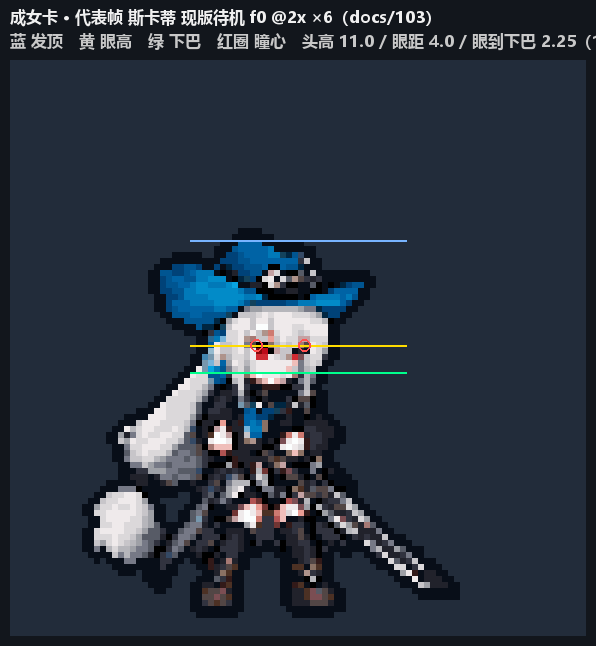
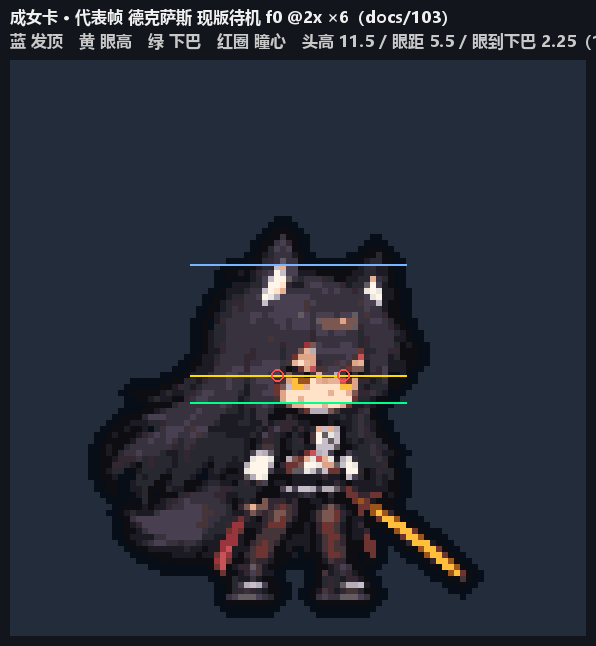
docs/103：斯卡蒂按用户分法归少（量得值成女型，标为卡内例外），成女卡代表帧改德克萨斯

Changed region(s): [[0.1208, 0.3096, 0.8154, 0.9598], [0.2114, 0.0, 0.755, 0.0929]]

diff --git a/docs/103_body_templates.md b/docs/103_body_templates.md
@@ -52,8 +52,8 @@
 
 | 判据 | 成女 | 少 | 幼（铃兰） | 成男 |
 |---|---|---|---|---|
-| 眼高（0 = 发顶） | 0.76–0.84（眼低） | 0.69–0.74 | 0.61 | 0.62–0.65 |
-| 眼到下巴 | 1.75–3.0（脸下半短） | 3.25–4.0 | 4.25 | 4.0–4.5（最长） |
+| 眼高（0 = 发顶） | 0.76–0.84（眼低） | 0.69–0.74（斯卡蒂例外 0.80） | 0.61 | 0.62–0.65 |
+| 眼到下巴 | 1.75–3.0（脸下半短） | 3.25–4.0（斯卡蒂例外 2.25） | 4.25 | 4.0–4.5（最长） |
 | 下巴宽 | 3.5–5.5，略收 / 尖（深海猎人一系尖） | 4.5–5.5，圆 | 5，圆 | 4–6，平底 / 方 |
 | 眼距 | 3.25–5.5 | 4–5.5 | 4.25 | 3–3.5（最窄） |
 
@@ -67,13 +67,14 @@
 
 | 卡 | 成员 | 站立高 | 头高 | 头身比 | 眼距 | 眼高 | 眼到下巴 | 下巴宽 | 肩宽 | 代表帧 |
 |---|---|---|---|---|---|---|---|---|---|---|
-| 成女 | 塞雷娅、浊心斯卡蒂、斯卡蒂、维什戴尔、星熊、德克萨斯、推进之王、归溟幽灵鲨 | 34.25（32.5–39） | 11.375（9.5–13） | 0.3275（0.292–0.394） | 4（3.25–5.5） | 0.79（0.68–0.84） | 2.5（1.75–3） | 4（3.5–5.5） | 27（18.5–32.5） | `art/templates/body_adult_f.png`（斯卡蒂） |
-| 少（少女 / 少年共卡） | 能天使、艾雅法拉、艾丽妮、安洁莉娜、凯尔希、水月 | 34.5（32–36.5） | 12.25（11.5–13.5） | 0.3585（0.329–0.403） | 5（4–5.5） | 0.715（0.69–0.74） | 3.5（3.25–4） | 5（4.5–5.5） | 23（14–27） | `art/templates/body_boy.png`（水月） |
+| 成女 | 塞雷娅、浊心斯卡蒂、维什戴尔、星熊、德克萨斯、推进之王、归溟幽灵鲨 | 34.5（32.5–39） | 11.5（9.5–13） | 0.326（0.292–0.394） | 4（3.25–5.5） | 0.78（0.68–0.84） | 2.5（1.75–3） | 4（3.5–5.5） | 27（23–32.5） | `art/templates/body_adult_f.png`（德克萨斯） |
+| 少（少女 / 少年共卡） | 能天使、艾雅法拉、艾丽妮、安洁莉娜、凯尔希、斯卡蒂、水月 | 33.5（32–36.5） | 12（11–13.5） | 0.358（0.329–0.403） | 4.75（4–5.5） | 0.73（0.69–0.8） | 3.5（2.25–4） | 5（4–5.5） | 22（14–27） | `art/templates/body_boy.png`（水月） |
 | 幼（萝莉 / 正太） | 铃兰 | 34 | 11 | 0.324 | 4.25 | 0.61 | 4.25 | 5 | 25.5 | `art/templates/body_girl.png`（铃兰） |
 | 成男 | 逻各斯、乌尔比安、流明 | 33.5（33.5–34.5） | 12（11.5–12） | 0.348（0.343–0.358） | 3.25（3–3.5） | 0.635（0.62–0.65） | 4.25（4–4.5） | 4.5（4–6） | 19.5（19–19.5） | `art/templates/body_adult_m.png`（逻各斯） |
 
 - **分卡依据**（10-15 协调人定，按量得值归；用户另有意见再改）：
   - 安洁莉娜、凯尔希 → 少：两人眼高 0.69 / 0.74、眼到下巴 3.75 / 3.25、圆下巴。
+  - **斯卡蒂 → 少（用户定）**：量得值是成女型（眼高 0.80、眼到下巴 2.25、尖下巴），按用户分法归少女；她的脸是「少」卡里的例外，返修 / 参照时以现版为准。
   - 推进之王 → 成女：眼高 0.76、眼到下巴 2.75。
   - 流明 → 成男：眼距 3.5、眼到下巴 4.0。
   - 归溟幽灵鲨 → 成女：尖下巴，深海猎人一系。
@@ -91,7 +92,7 @@
 ## 4. 各卡的脸部构成规则（来自 §2 实测）
 
 - **成女**：眼睛低（眼高 ≥ 0.76），脸下半短（眼到下巴 ≤ 3）；下巴略收，深海猎人一系尖；刘海压到眼上沿。
-- **少**：眼高 0.69–0.74，眼到下巴 3.25–4.0；圆下巴、下巴宽约 5；少年肩窄（≈ 14），少女胯宽。
+- **少**：眼高 0.69–0.74，眼到下巴 3.25–4.0（斯卡蒂例外，按现版）；圆下巴、下巴宽约 5；少年肩窄（≈ 14），少女胯宽。
 - **幼**：在少的基础上眼更高（≈ 0.6）、额头大、圆脸。
 - **成男**：眼距窄（3–3.5），脸长（眼到下巴 4–4.5），平底 / 方下巴；**不能收成 2 像素的尖下巴**（G 批逻各斯被退的原因）。
 
